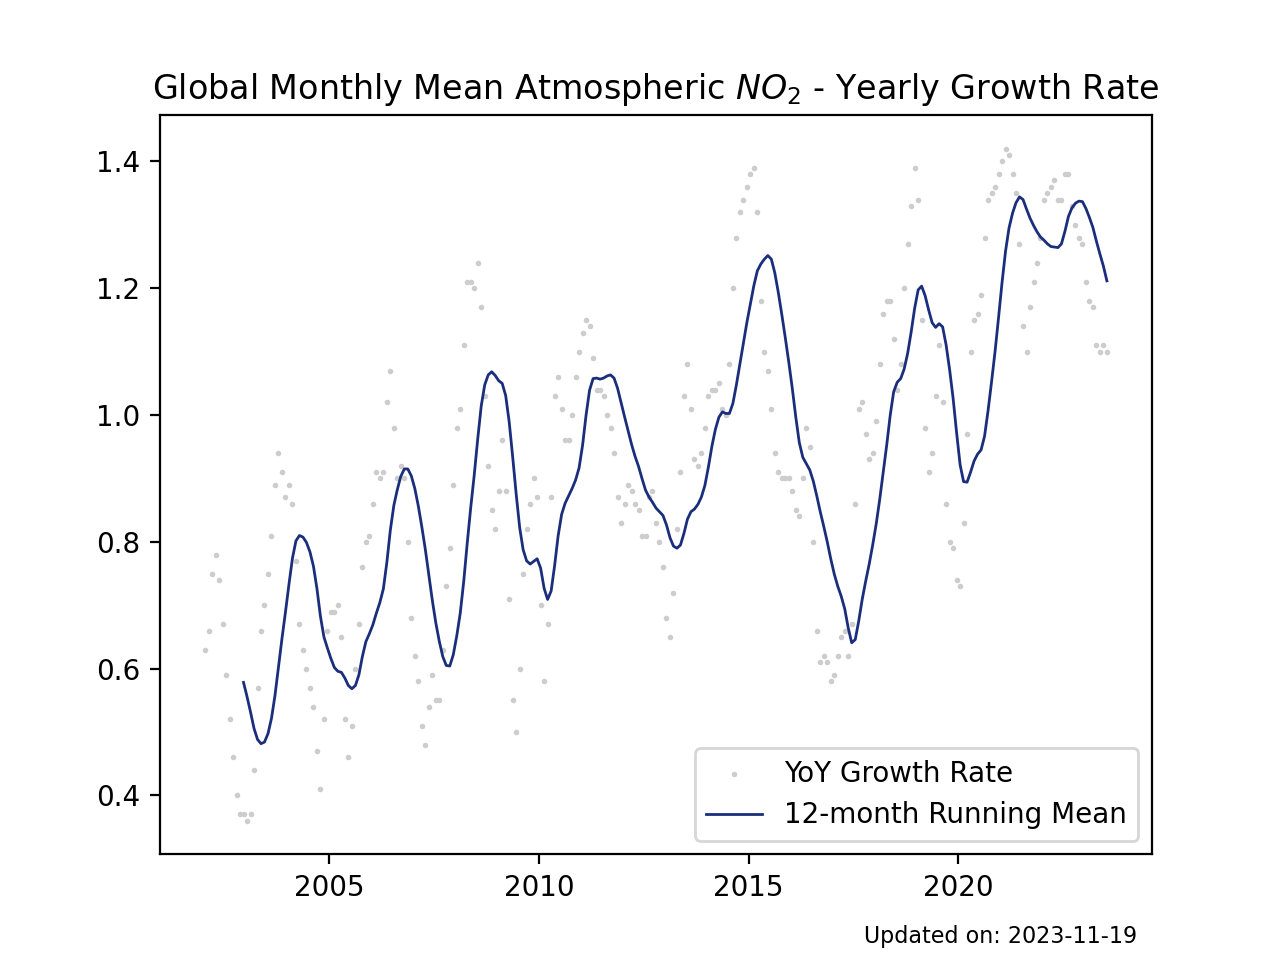
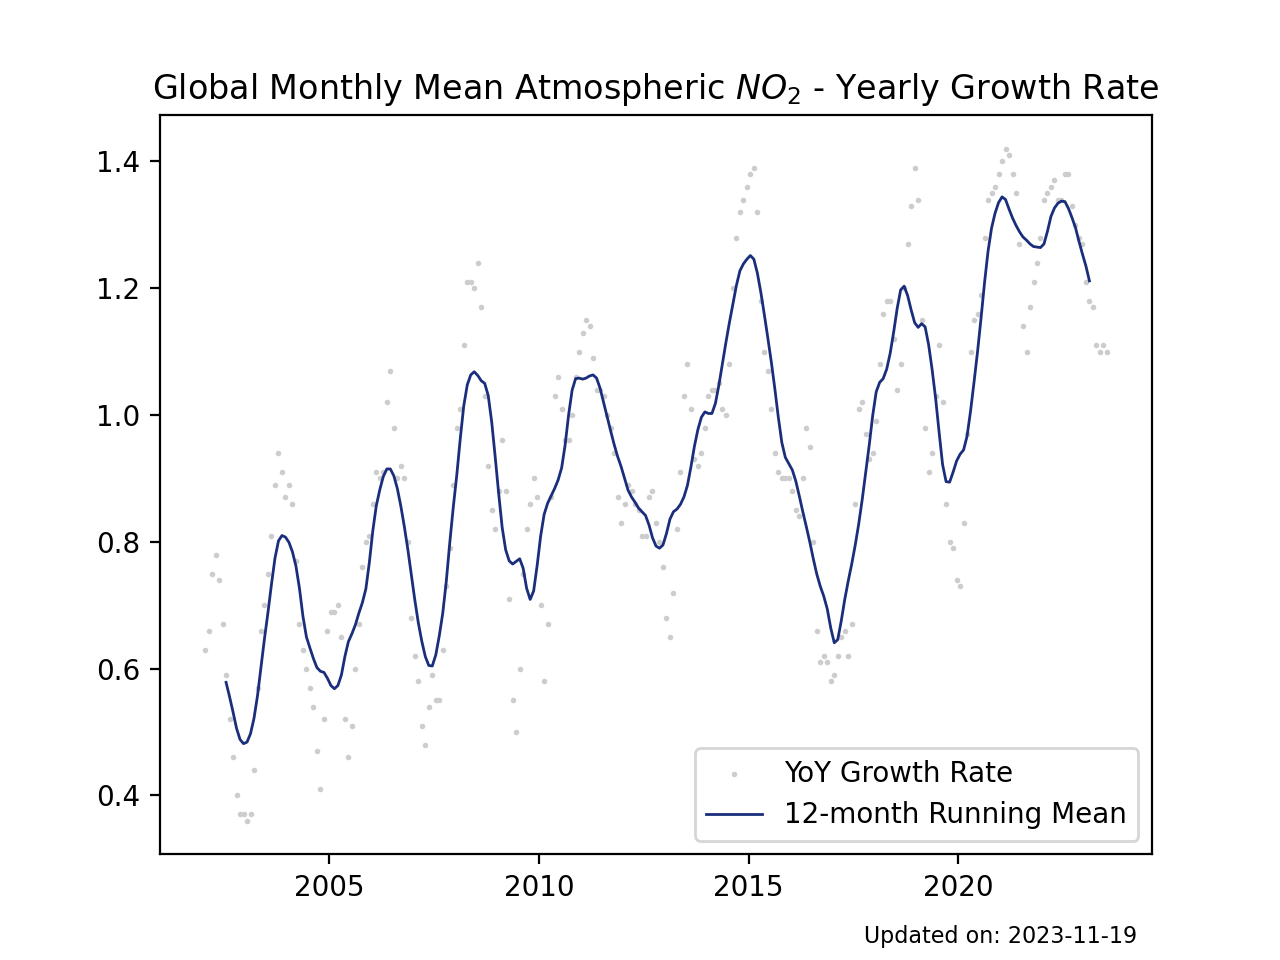
Center rolling window

diff --git a/utils.py b/utils.py
@@ -7,7 +7,7 @@ import matplotlib.pyplot as plt
 def plot_monthly_yearly_growth_rate(url: str, header: int, gas: str, color: str, out: str):
     df = pd.read_csv(url, header=header)
     df["average_diff12"] = df["average"].diff(12)
-    df["average_diff12_rollmean12"] = df["average"].diff(12).rolling(12).mean()
+    df["average_diff12_rollmean12"] = df["average"].diff(12).rolling(12, center=True).mean()
 
     fig, ax = plt.subplots()
     ax.set_title(f"Global Monthly Mean Atmospheric {gas} - Yearly Growth Rate")
